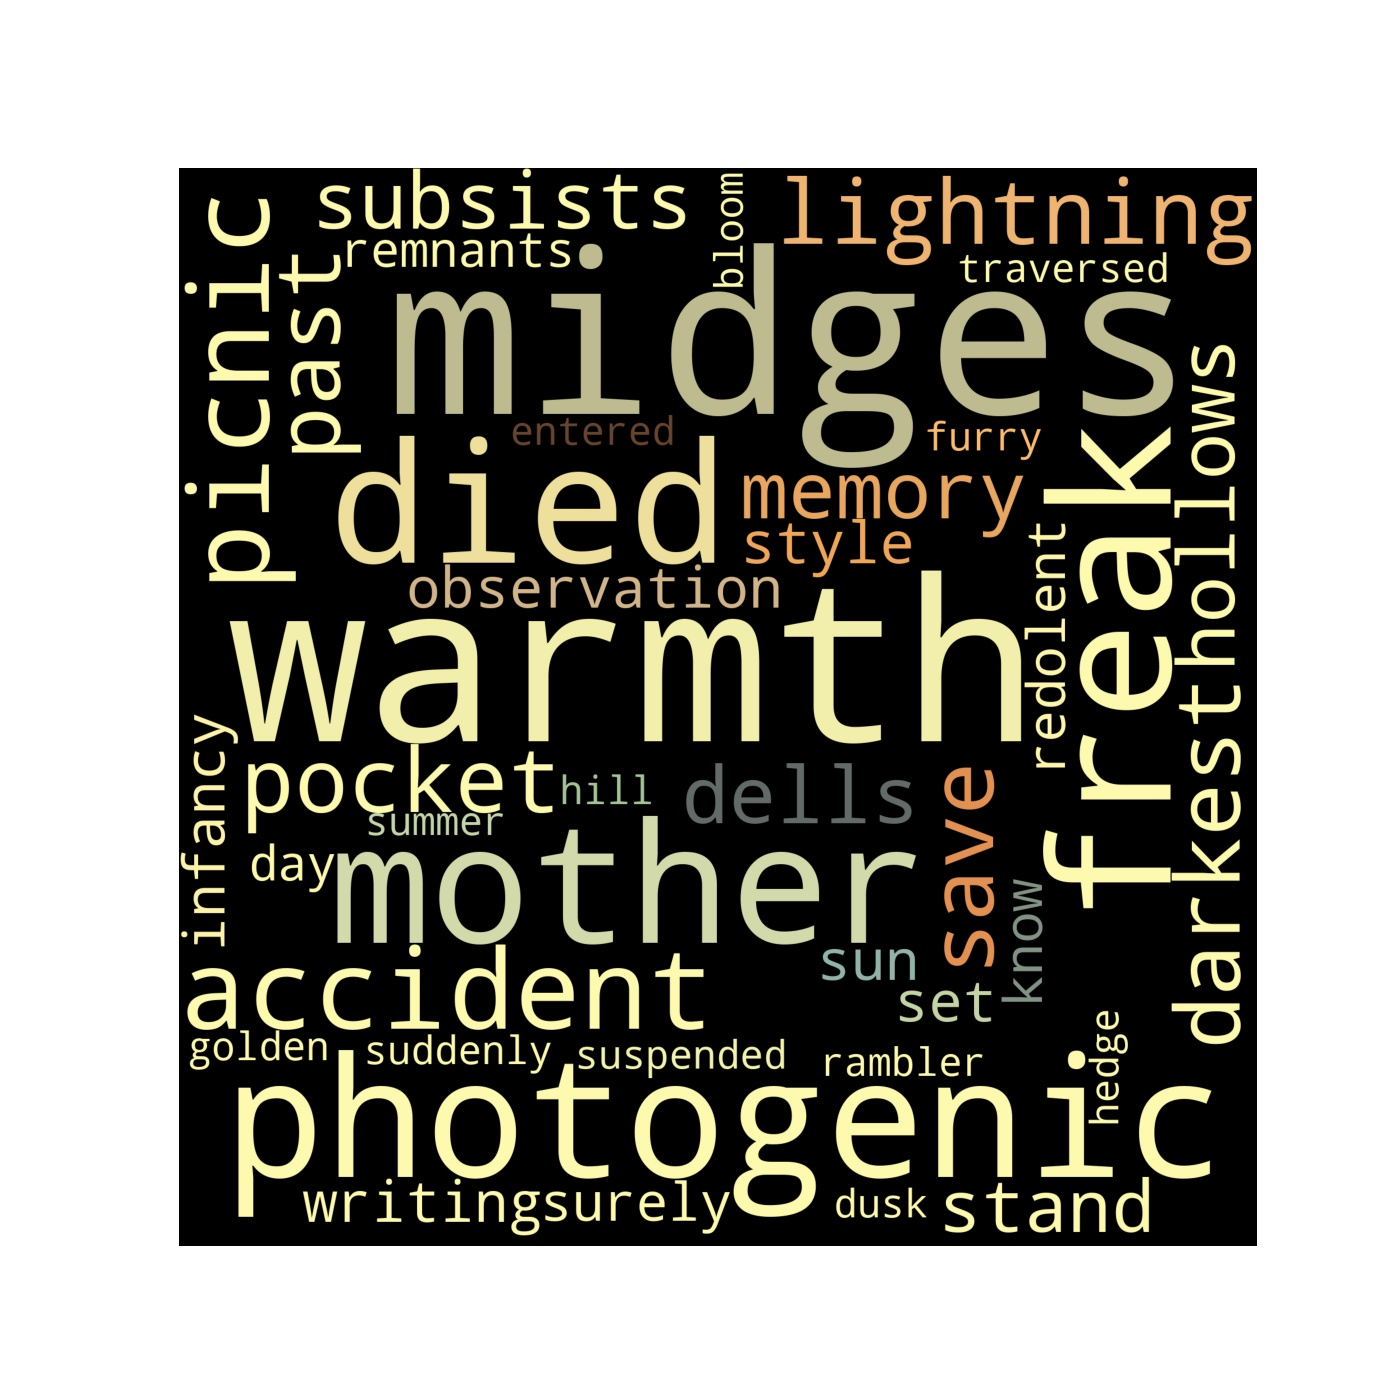
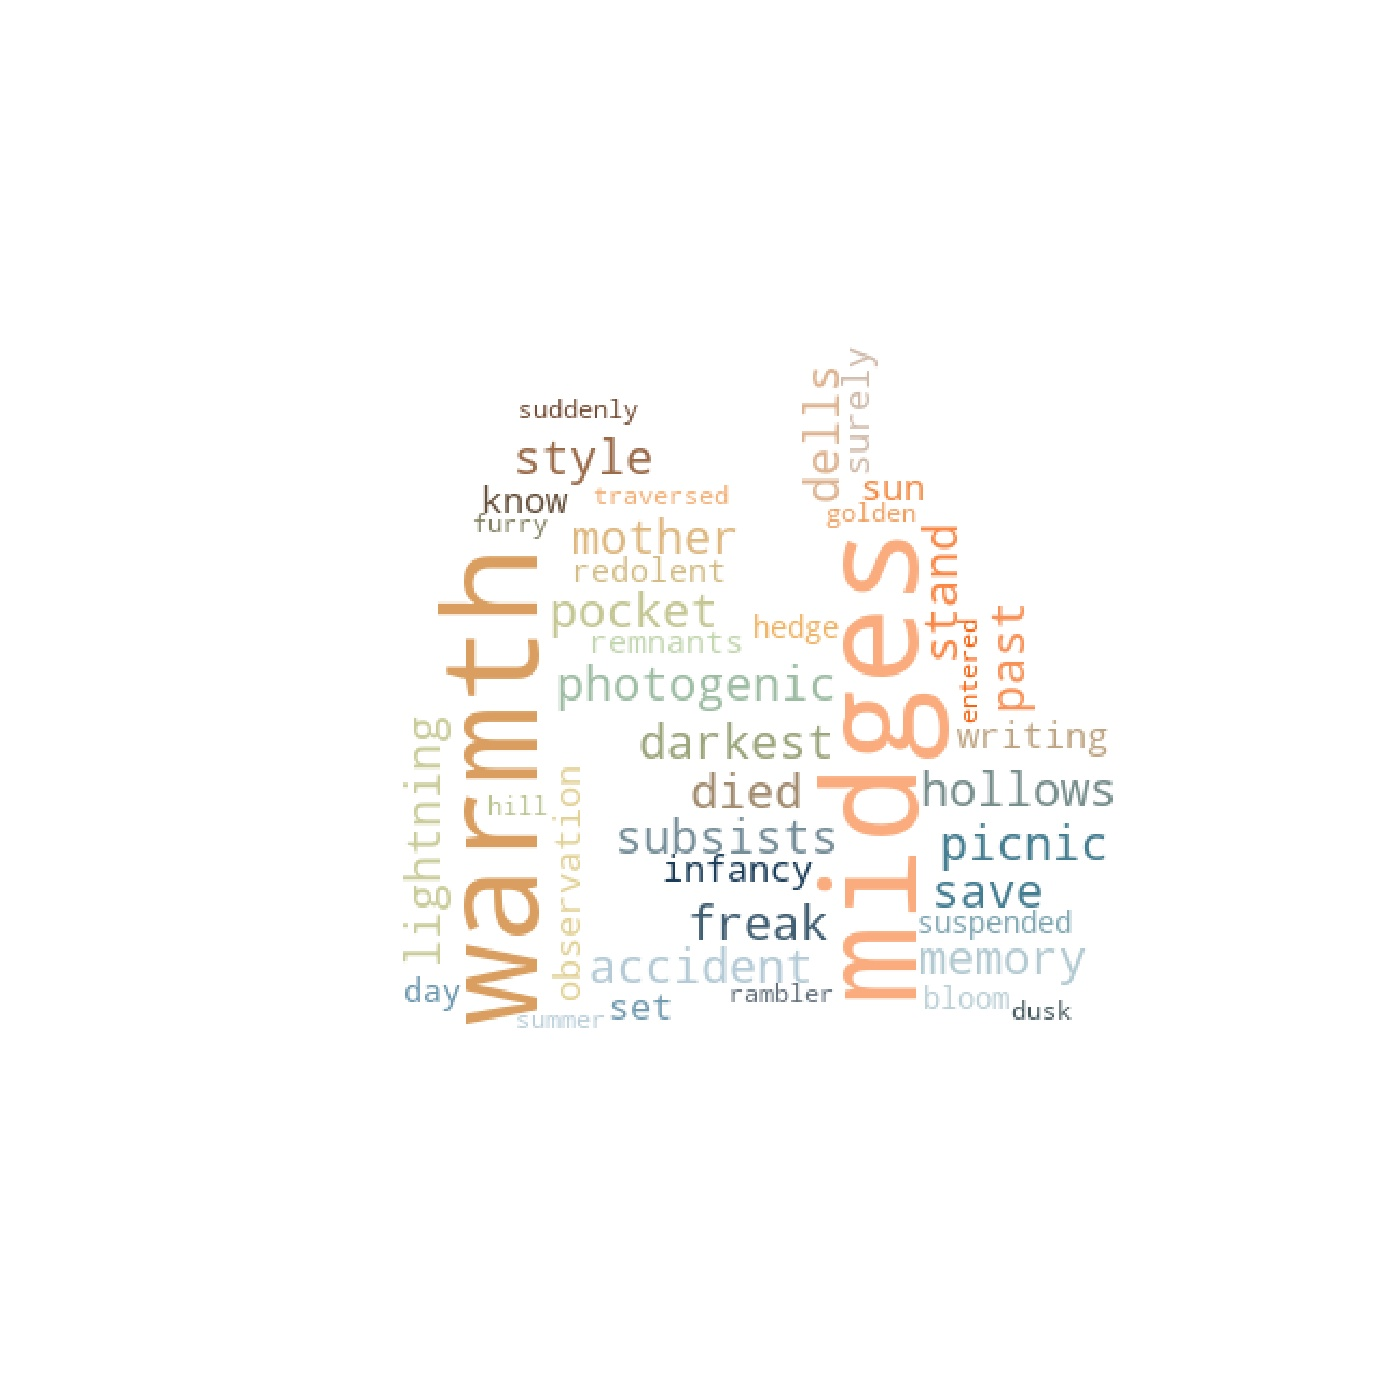
Fixing wordcloud
Fixed the paths of the files and removed the background of the mask image.

diff --git a/final_project.py b/final_project.py
@@ -107,18 +107,18 @@ def most_common_words_display(sentence):
 def word_cloud_display(sentence):
 
     d = getcwd()
-    mask = np.array(Image.open(path.join(d, "ISMT-E-117-Final-Project/resources/family-gathering.jpg")))
+    mask = np.array(Image.open(path.join(d, "resources/family-gathering.png")))
     image_colors = ImageColorGenerator(mask)
 
 
-    wc = WordCloud(background_color="black", max_words=200, width=400, height=400,
+    wc = WordCloud(background_color="white", max_words=200, width=400, height=400,
                  mask=mask, random_state=1).generate(' '.join(map(str, list_of_clean_lemmas(sentence))))
 
     plt.figure(figsize=[7, 7])
     plt.imshow(wc.recolor(color_func=image_colors), interpolation="bilinear")
     plt.axis("off")
     plt.imshow(wc.recolor(color_func=image_colors))
-    plt.savefig('ISMT-E-117-Final-Project/resources/wordcloud.jpg', dpi=200)
+    plt.savefig(path.join(d, 'resources/wordcloud.jpg'), dpi=200)
     plt.show()
 
 def data_preprocessing():
